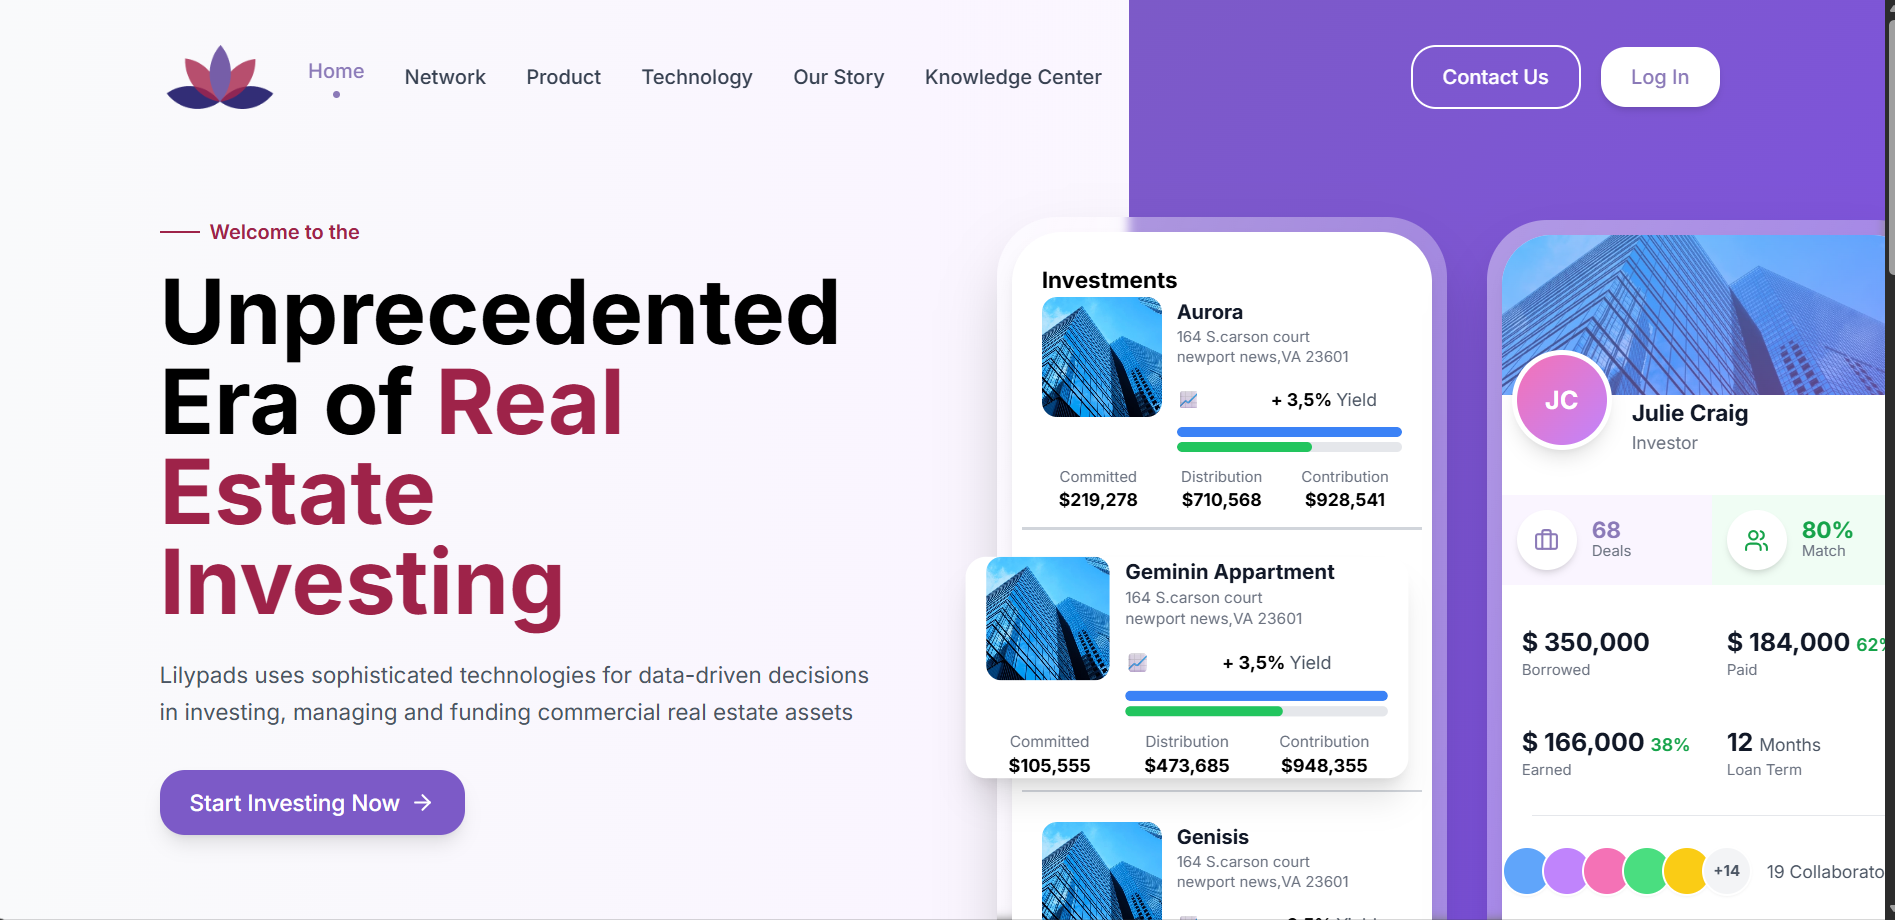
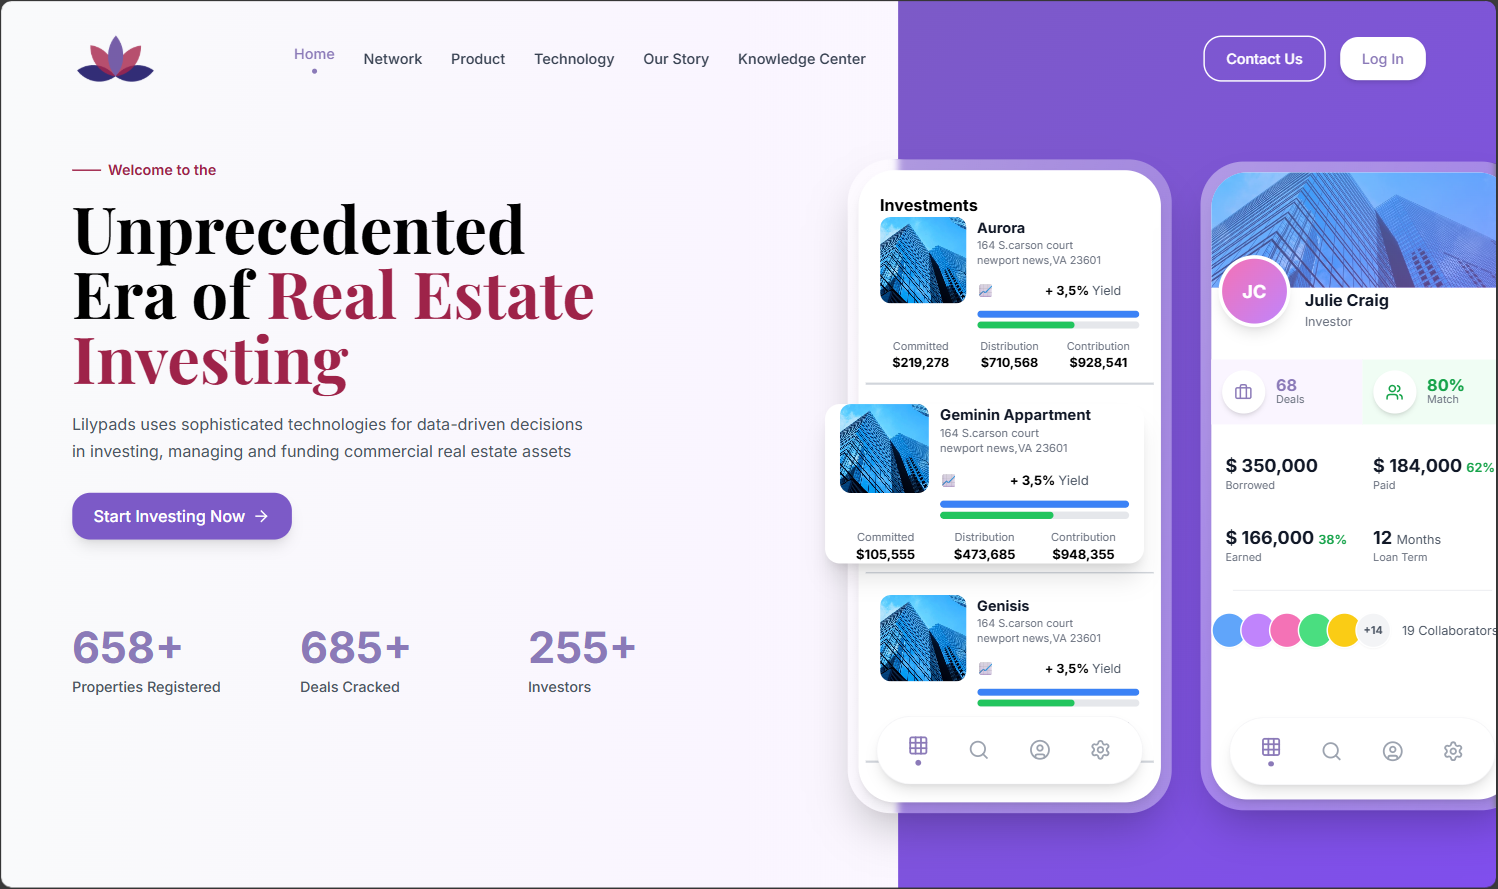
font style updated

diff --git a/src/components/sections/HeroSection.jsx b/src/components/sections/HeroSection.jsx
@@ -23,7 +23,7 @@ const HeroSection = () => {
                 <span className="w-8 h-0.5 bg-[#9E2349]"></span>
                 Welcome to the
               </p>
-              <h1 className="text-5xl md:text-6xl lg:text-7xl font-bold leading-tight mb-6">
+              <h1 className="text-5xl md:text-6xl lg:text-7xl font-bold leading-tight mb-6 font-serif">
                 Unprecedented<br />
                 Era of <span className="text-[#9E2349]">Real Estate</span><br />
                 <span className="text-[#9E2349]">Investing</span>
